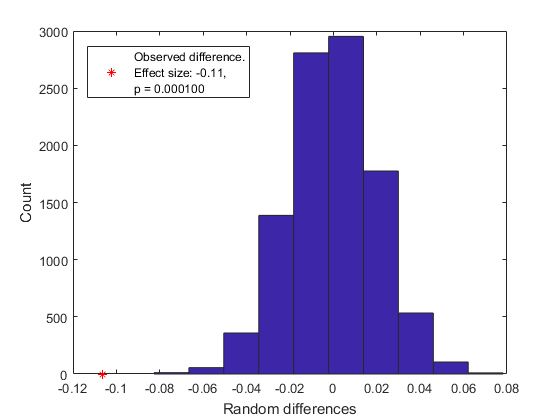
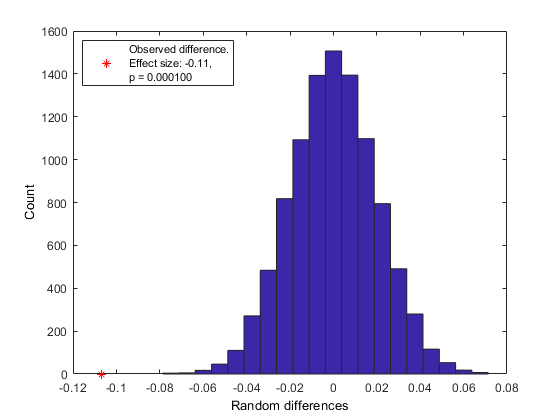
Increased number of bins in the plot

diff --git a/permutationTest.m b/permutationTest.m
@@ -44,6 +44,7 @@
 
 % 2019-02-01 lrk
 %   - Added short description
+%   - Increased the number of bins in the plot
 % 2018-03-15 lrk
 %   - Suppressed initial MATLAB:nchoosek:LargeCoefficient warning
 % 2018-03-14 lrk
@@ -156,7 +157,7 @@ end
 % plotting result
 if plotresult
     figure;
-    hist(randomdifferences);
+    hist(randomdifferences, 20);
     hold on;
     xlabel('Random differences');
     ylabel('Count')
